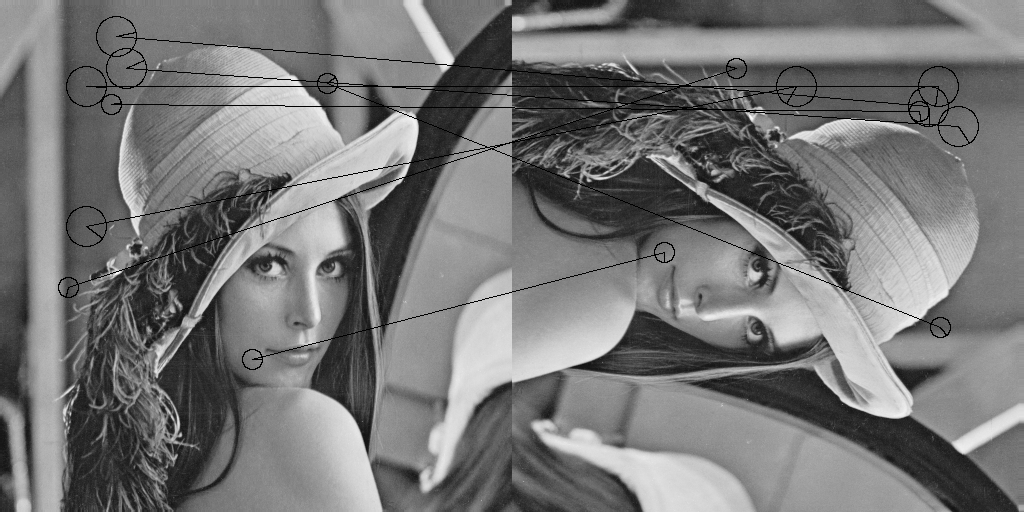
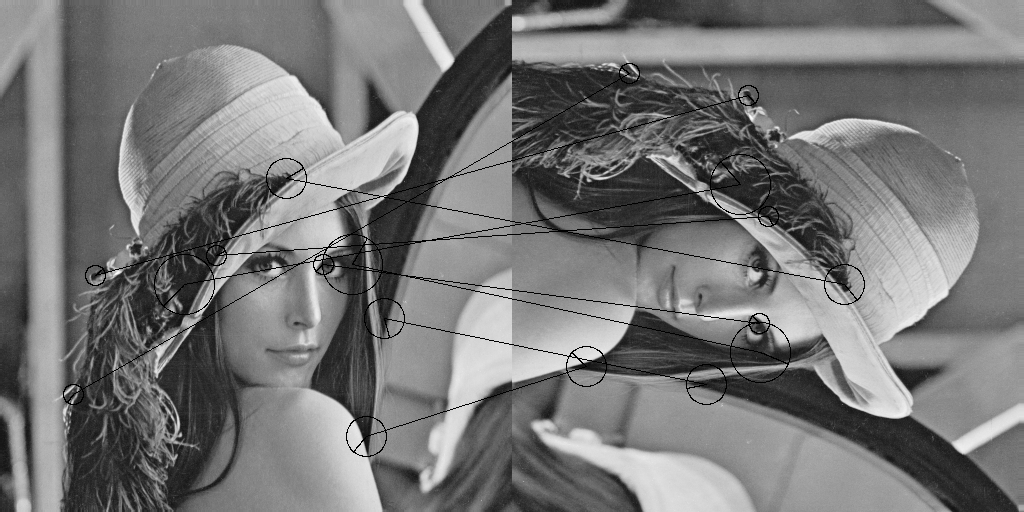
new image

diff --git a/examples/image_processing/orb_pyramid_match.rs b/examples/image_processing/orb_pyramid_match.rs
@@ -22,6 +22,9 @@ fn main() {
 
     let image_name = "cereal_1_scaled_25";
     let image_name_2 = "cereal_2_scaled_25";
+    
+    //let image_name = "board_1_scaled_25";
+    //let image_name_2 = "board_2_scaled_25";
 
 
     let image_format = "png";
@@ -51,18 +54,18 @@ fn main() {
         max_features_per_octave_scale: 1.5,
         octave_count: 3,
         harris_k: 0.04,
-        fast_circle_radius: 9,
+        fast_circle_radius: 3,
         fast_threshold_factor: 0.2,
         fast_consecutive_pixels: 12,
         fast_grid_size: (2,2),
         fast_grid_size_scale_base: 1.0,
         fast_offsets: (3,3),
         fast_offset_scale_base: 1.0,
-        brief_features_to_descriptors: 256,
+        brief_features_to_descriptors: 128,
         brief_n: 256,
         brief_s: 31,
         brief_s_scale_base: 1.0,
-        brief_matching_min_threshold: 256/4, //8
+        brief_matching_min_threshold: 256/2, //8
         brief_lookup_table_step: 30.0,
         brief_sampling_pattern_seed: 0x0DDB1A5ECBAD5EEDu64
     };

diff --git a/src/pyramid/orb/mod.rs b/src/pyramid/orb/mod.rs
@@ -25,7 +25,9 @@ pub fn build_orb_pyramid(base_gray_image: Image, runtime_parameters: &OrbRuntime
             sigma *= 2.0;
         }
 
-        let new_octave = OrbOctave::build_octave(&octave_image.standardize(),sigma, runtime_parameters);
+        //TODO: investigate not using z-standardizing improves results
+        //let new_octave = OrbOctave::build_octave(&octave_image.standardize(),sigma, runtime_parameters);
+        let new_octave = OrbOctave::build_octave(&octave_image,sigma, runtime_parameters);
 
         octaves.push(new_octave);
     }

diff --git a/README.md b/README.md
@@ -8,7 +8,7 @@ Dense VO implementation in Rust. https://ieeexplore.ieee.org/document/6631104
 Imu Preintgration in Rust http://rpg.ifi.uzh.ch/docs/TRO16_forster.pdf
 
 ## Orb
-![billa_cereal](doc/billa_cereal.png)![orb_90](doc/lenna_orb_matches_all_90.png)
+![billa_cereal](doc/billa_cereal.png)![billa_cereal_tilted](doc/billa_cereal_tilted.png)
 
 ## Fast Corner
 ![fast](doc/lenna_fast.png)
